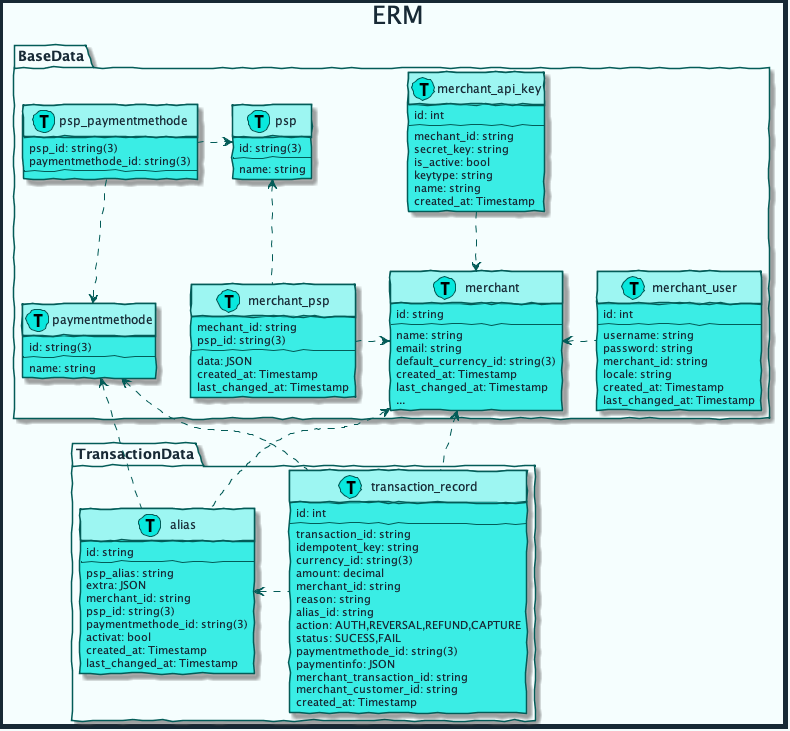
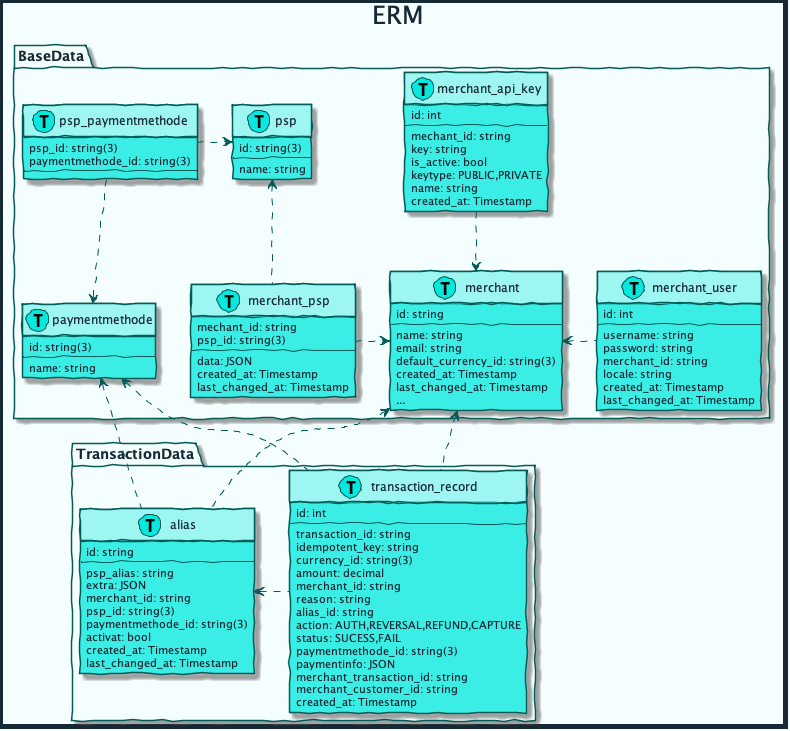
api changes

Changed region(s): [[0.4861, 0.0903, 0.7291, 0.301]]

diff --git a/API.md b/API.md
@@ -48,3 +48,54 @@
   Delete Alias:  
   null  
   -> { status }
+
+## BaseData (Dashboard)
+
+- GET /merchant/{merchantId}  
+  Header: Keycloak JWT Token  
+  -> 200 { name, email, defaultCurrency } | 401 | 403 | 404
+
+- PUT/PATCH /merchant/{merchantId}  
+  Header: Keycloak JWT Token  
+  { name, email, defaultCurrency }  
+  -> 204 | 400 | 401 | 403 | 404
+
+- GET /merchant/{merchantId}/api-key  
+  Header: Keycloak JWT Token  
+  -> 200 { count, data: [ { id, name, keyType }] } | 401 | 403 | 404
+
+- POST /merchant/{merchantId}/api-key  
+  Header: Keycloak JWT Token  
+  { name, keyType }  
+  -> 201 { id, key } | 400 | 401 | 403
+
+- GET /merchant/{merchantId}/api-key/{apiKeyId}  
+  Header: Keycloak JWT Token  
+  -> 200 { id, name, keyType } | 401 | 403 | 404
+
+- PATCH /merchant/{merchantId}/api-key/{apiKeyId}  
+  Header: Keycloak JWT Token  
+  { name }  
+  -> 204 | 400 | 401 | 403 | 404
+
+- DELETE /merchant/{merchantId}/api-key/{apiKeyId}  
+  Header: Keycloak JWT Token  
+  -> 204 | 401 | 403 | 404
+
+- GET /merchant/{merchantId}/psp  
+  Header: Keycloak JWT Token  
+  -> 200 { count, data: [ { config } ] } | 401 | 403
+
+- POST /merchant/{merchantId}/psp  
+  Header: Keycloak JWT Token  
+  { pspId, config }  
+  -> 201 { pspId } | 400 | 401 | 403
+
+- GET /merchant/{merchantId}/psp/{pspId}  
+  Header: Keycloak JWT Token  
+  -> 200 { config } | 401 | 403 | 404
+
+- PUT /merchant/{merchantId}/psp/{pspId}  
+  Header: Keycloak JWT Token  
+  { config }  
+  -> 204 | 401 | 403 | 404
